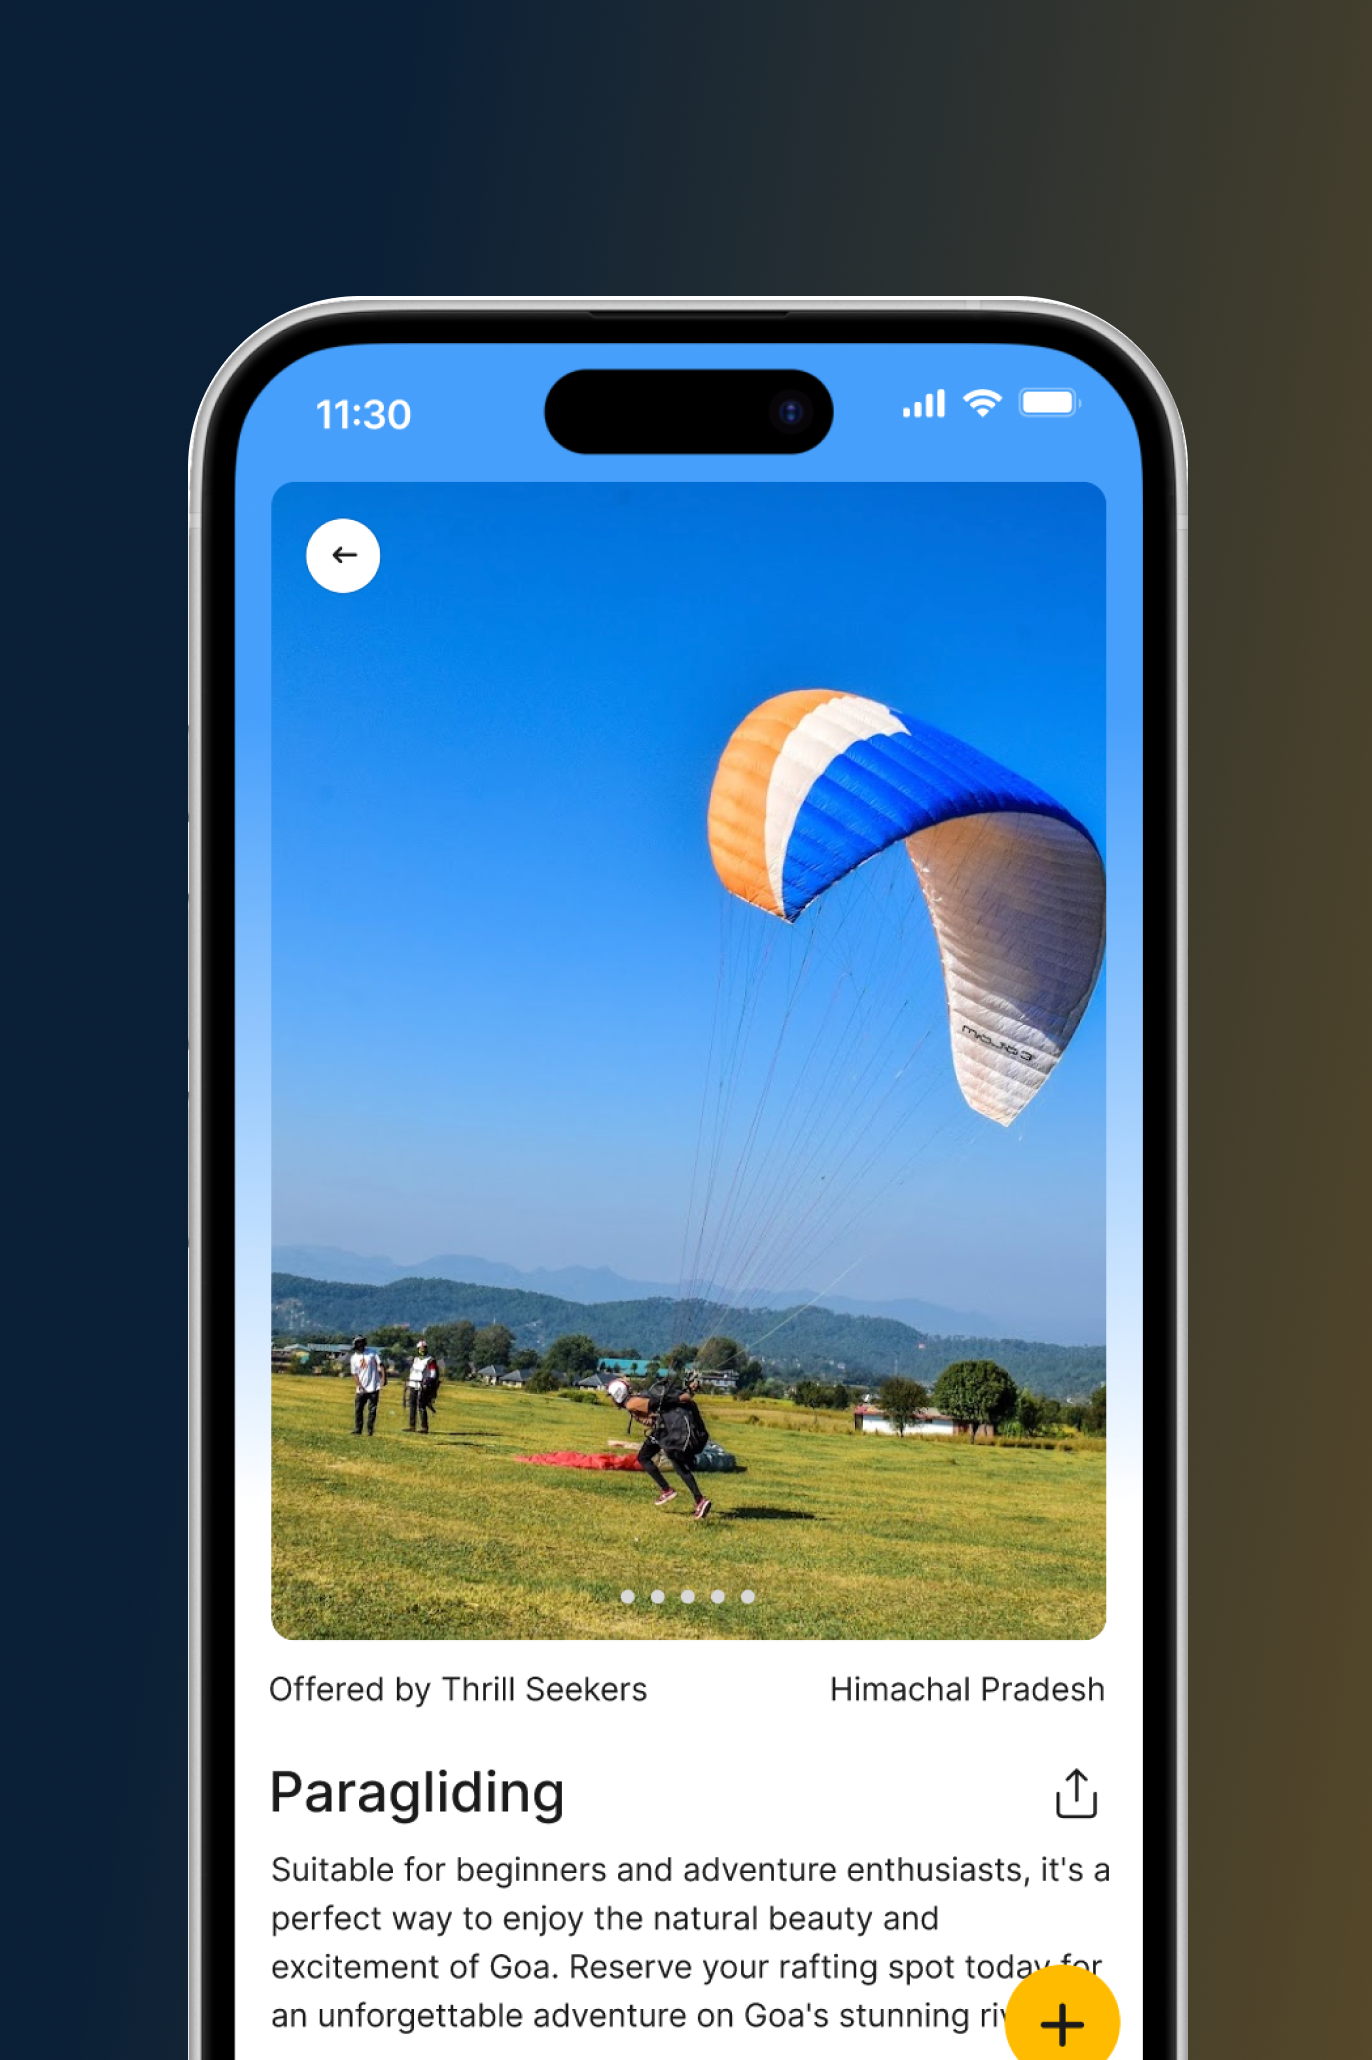
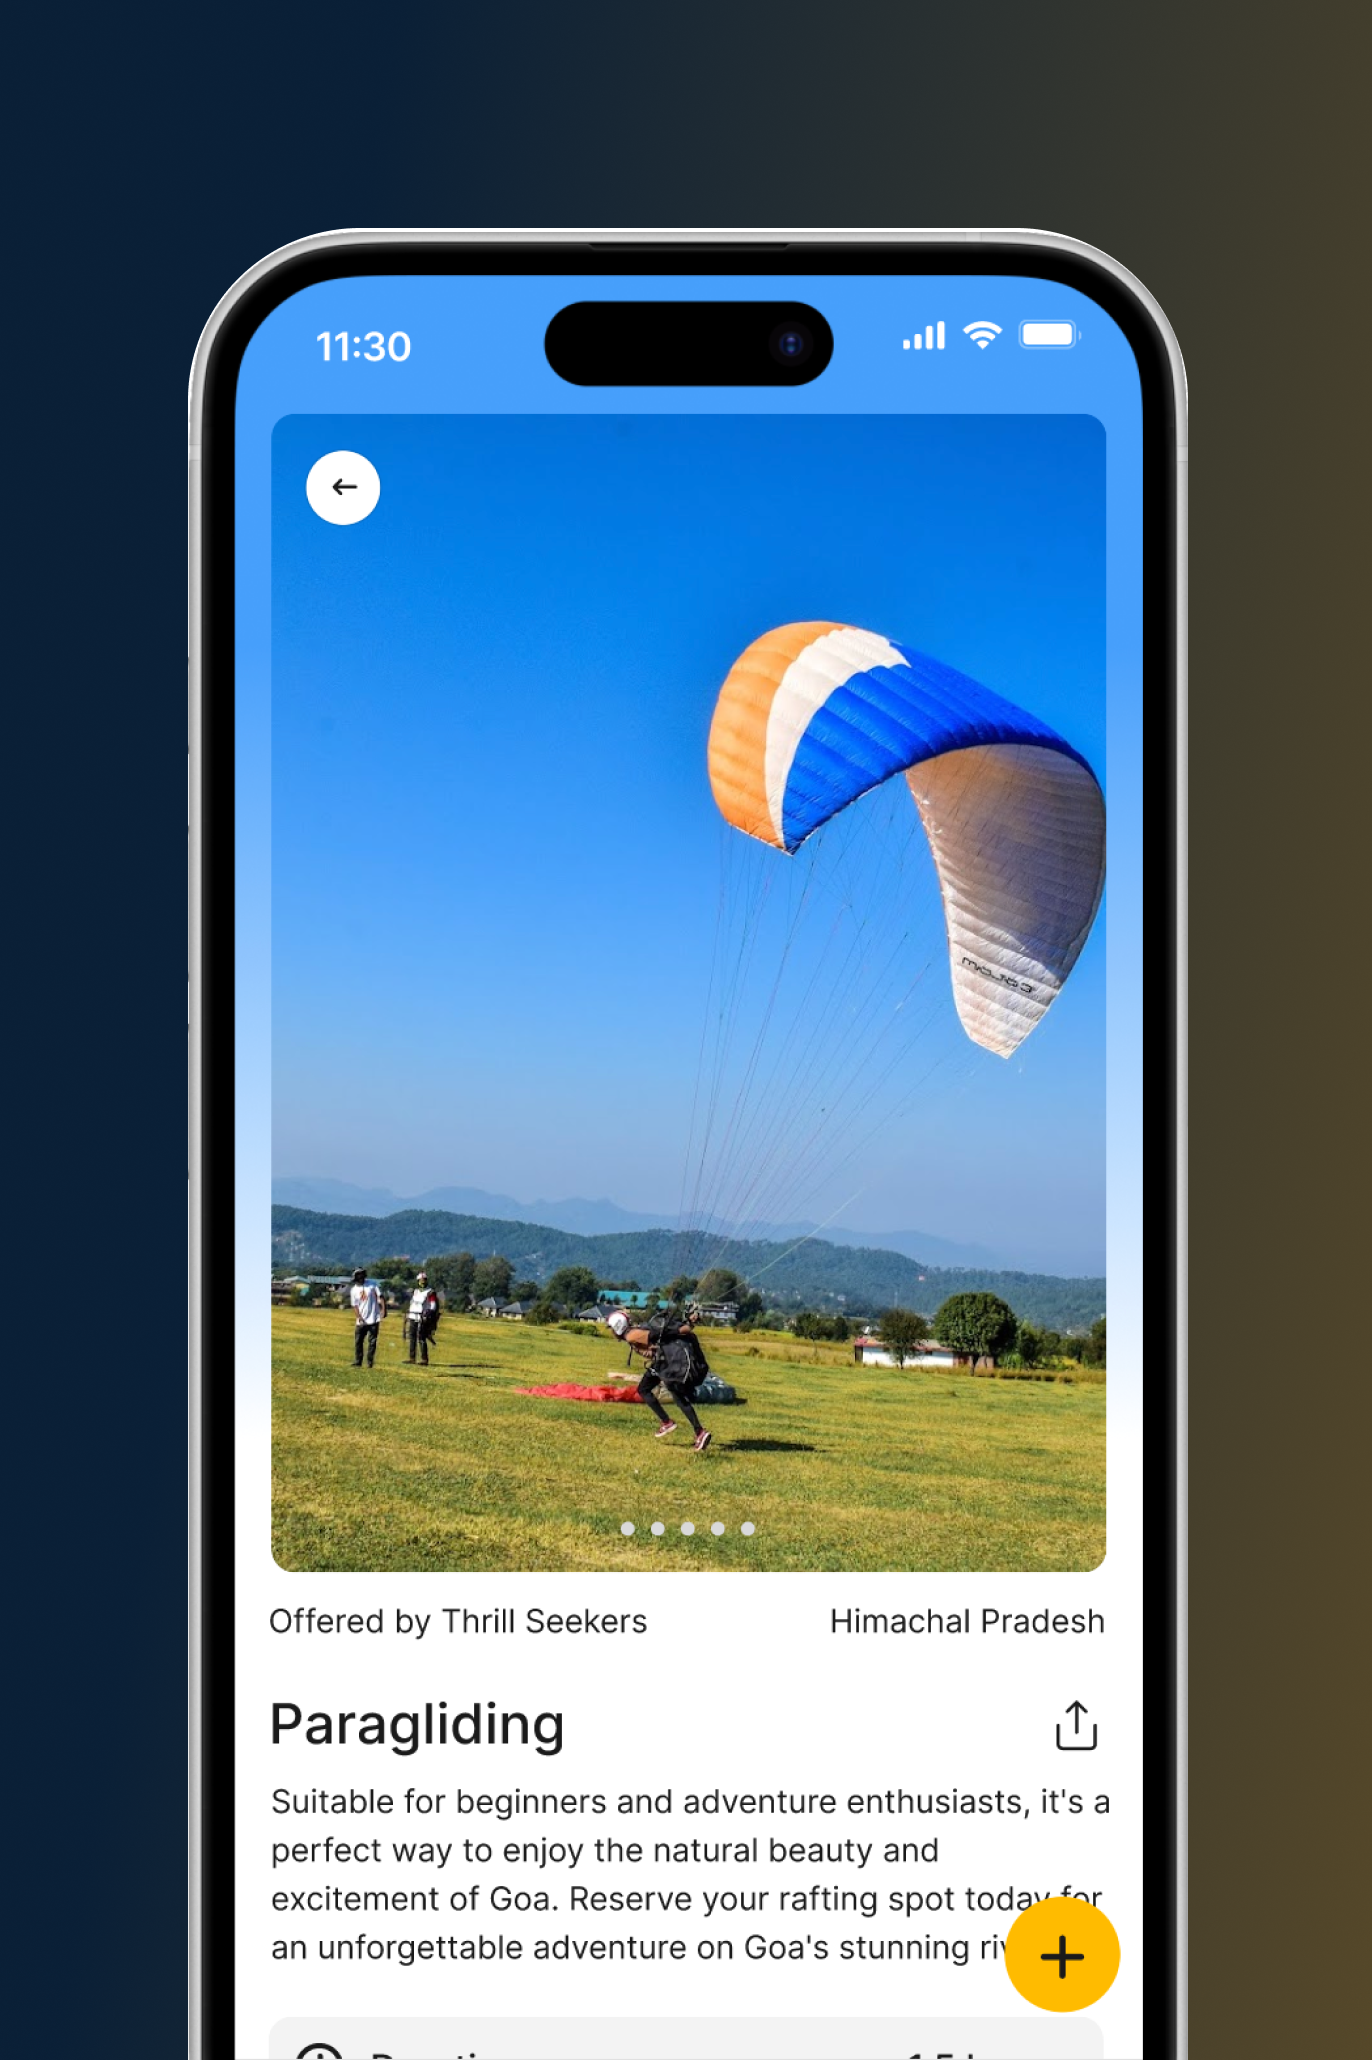
update14

diff --git a/index.html b/index.html
@@ -121,10 +121,10 @@
     </div>
     <div class="work-tab-panel is-active" data-work-panel="office" role="tabpanel">
       <div class="work-tab-showcase">
-        <div class="portfolio-container portfolio-container-clickable" onclick="openPage('life-insurance')" onkeydown="if(event.key === 'Enter' || event.key === ' '){ event.preventDefault(); openPage('life-insurance'); }" role="button" tabindex="0" aria-label="Open Life Insurance case study">
+        <div class="portfolio-container portfolio-container-clickable life-mobile-edge-card" onclick="openPage('life-insurance')" onkeydown="if(event.key === 'Enter' || event.key === ' '){ event.preventDefault(); openPage('life-insurance'); }" role="button" tabindex="0" aria-label="Open Life Insurance case study">
           <div class="portfolio-card">
             <picture class="portfolio-project-image">
-              <source media="(max-width: 768px)" srcset="Mobile1-1100.jpg">
+              <source media="(max-width: 768px)" srcset="LifeMobileLightMode-1400.jpg">
               <img
                 id="life-work-preview-panel"
                 src="LifeDesktopLightMode-2400.jpg"
@@ -180,7 +180,7 @@
     </div>
     <div class="work-tab-panel" data-work-panel="freelance" role="tabpanel" hidden>
       <div class="work-tab-showcase">
-        <div class="portfolio-container portfolio-container-clickable" onclick="openPage('go-leap')" onkeydown="if(event.key === 'Enter' || event.key === ' '){ event.preventDefault(); openPage('go-leap'); }" role="button" tabindex="0" aria-label="Open Go Leap case study">
+        <div class="portfolio-container portfolio-container-clickable goleap-mobile-edge-card" onclick="openPage('go-leap')" onkeydown="if(event.key === 'Enter' || event.key === ' '){ event.preventDefault(); openPage('go-leap'); }" role="button" tabindex="0" aria-label="Open Go Leap case study">
           <div class="portfolio-card">
             <picture class="portfolio-project-image">
               <source media="(max-width: 768px)" srcset="GoLeapMobile.png">
@@ -200,7 +200,7 @@
         <div class="portfolio-container portfolio-container-clickable" onclick="openPage('colrows')" onkeydown="if(event.key === 'Enter' || event.key === ' '){ event.preventDefault(); openPage('colrows'); }" role="button" tabindex="0" aria-label="Open Colrows case study">
           <div class="portfolio-card">
             <picture class="portfolio-project-image">
-              <source media="(max-width: 768px)" srcset="ColrowsMobileLightMode-1100.jpg">
+              <source media="(max-width: 768px)" srcset="ColrowsMobile.png">
               <img src="ColrowsDesktopLightMode-2400.jpg" alt="Colrows project preview" loading="lazy" decoding="async" fetchpriority="low">
             </picture>
           </div>
@@ -217,7 +217,7 @@
         <div class="portfolio-container portfolio-container-clickable" onclick="openPage('refi-nft-dashboard')" onkeydown="if(event.key === 'Enter' || event.key === ' '){ event.preventDefault(); openPage('refi-nft-dashboard'); }" role="button" tabindex="0" aria-label="Open ReFi NFT Dashboard case study">
           <div class="portfolio-card">
             <picture class="portfolio-project-image">
-              <source media="(max-width: 768px)" srcset="RefiMobileDarkMode-1100.jpg">
+              <source media="(max-width: 768px)" srcset="RefiMobile.png">
               <img src="RefiDesktopDarkMode-2400.jpg" alt="ReFi NFT Dashboard project preview" loading="lazy" decoding="async" fetchpriority="low">
             </picture>
           </div>
@@ -419,7 +419,7 @@
   <div class="case-study-page">
     <div class="case-study-hero">
       <picture class="case-study-hero-media">
-        <source media="(max-width: 768px)" srcset="Mobile1-1100.jpg">
+        <source media="(max-width: 768px)" srcset="LifeMobileLightMode-1400.jpg">
         <img src="Desktop1.png" alt="Life Insurance, Bajaj Finserv case study hero" loading="lazy" decoding="async" fetchpriority="low">
       </picture>
     </div>
@@ -562,7 +562,7 @@
   <div class="case-study-page">
     <div class="case-study-hero">
       <picture class="case-study-hero-media">
-        <source media="(max-width: 768px)" srcset="RefiMobileDarkMode-1100.jpg">
+        <source media="(max-width: 768px)" srcset="RefiMobile.png">
         <img src="RefiDesktopDarkMode-2400.jpg" alt="ReFi NFT Dashboard case study hero" loading="lazy" decoding="async" fetchpriority="low">
       </picture>
     </div>
@@ -635,7 +635,7 @@
   <div class="case-study-page">
     <div class="case-study-hero">
       <picture class="case-study-hero-media">
-        <source media="(max-width: 768px)" srcset="ColrowsMobileLightMode-1100.jpg">
+        <source media="(max-width: 768px)" srcset="ColrowsMobile.png">
         <img src="ColrowsDesktopLightMode-2400.jpg" alt="Colrows case study hero" loading="lazy" decoding="async" fetchpriority="low">
       </picture>
     </div>
@@ -770,10 +770,10 @@
   <h2 class="portfolio-title">Some of my work</h2>
 
   <!-- Portfolio item 1 -->
-  <div class="portfolio-container portfolio-container-clickable" onclick="openPage('life-insurance')" onkeydown="if(event.key === 'Enter' || event.key === ' '){ event.preventDefault(); openPage('life-insurance'); }" role="button" tabindex="0" aria-label="Open Life Insurance case study">
+  <div class="portfolio-container portfolio-container-clickable life-mobile-edge-card" onclick="openPage('life-insurance')" onkeydown="if(event.key === 'Enter' || event.key === ' '){ event.preventDefault(); openPage('life-insurance'); }" role="button" tabindex="0" aria-label="Open Life Insurance case study">
     <div class="portfolio-card">
       <picture class="portfolio-project-image">
-        <source media="(max-width: 768px)" srcset="Mobile1-1100.jpg">
+        <source media="(max-width: 768px)" srcset="LifeMobileLightMode-1400.jpg">
         <img
           id="life-work-preview"
           src="LifeDesktopLightMode-2400.jpg"
@@ -796,7 +796,7 @@
   </div>
 
   <!-- Portfolio item 2 -->
-  <div class="portfolio-container portfolio-container-clickable" onclick="openPage('go-leap')" onkeydown="if(event.key === 'Enter' || event.key === ' '){ event.preventDefault(); openPage('go-leap'); }" role="button" tabindex="0" aria-label="Open Go Leap case study">
+  <div class="portfolio-container portfolio-container-clickable goleap-mobile-edge-card" onclick="openPage('go-leap')" onkeydown="if(event.key === 'Enter' || event.key === ' '){ event.preventDefault(); openPage('go-leap'); }" role="button" tabindex="0" aria-label="Open Go Leap case study">
     <div class="portfolio-card">
       <picture class="portfolio-project-image">
         <source media="(max-width: 768px)" srcset="GoLeapMobile.png">
@@ -816,7 +816,7 @@
   <div class="portfolio-container portfolio-container-clickable" onclick="openPage('refi-nft-dashboard')" onkeydown="if(event.key === 'Enter' || event.key === ' '){ event.preventDefault(); openPage('refi-nft-dashboard'); }" role="button" tabindex="0" aria-label="Open ReFi NFT Dashboard case study">
     <div class="portfolio-card">
       <picture class="portfolio-project-image">
-        <source media="(max-width: 768px)" srcset="RefiMobileDarkMode-1100.jpg">
+        <source media="(max-width: 768px)" srcset="RefiMobile.png">
         <img src="RefiDesktopDarkMode-2400.jpg" alt="ReFi NFT Dashboard project preview" loading="lazy" decoding="async" fetchpriority="low">
       </picture>
     </div>
@@ -833,7 +833,7 @@
   <div class="portfolio-container portfolio-container-clickable" onclick="openPage('colrows')" onkeydown="if(event.key === 'Enter' || event.key === ' '){ event.preventDefault(); openPage('colrows'); }" role="button" tabindex="0" aria-label="Open Colrows case study">
     <div class="portfolio-card">
       <picture class="portfolio-project-image">
-        <source media="(max-width: 768px)" srcset="ColrowsMobileLightMode-1100.jpg">
+        <source media="(max-width: 768px)" srcset="ColrowsMobile.png">
         <img src="ColrowsDesktopLightMode-2400.jpg" alt="Colrows project preview" loading="lazy" decoding="async" fetchpriority="low">
       </picture>
     </div>

diff --git a/styles-v2.css b/styles-v2.css
@@ -16,14 +16,14 @@
 
   html.dark {
     --bg: #0a0a0a;
-    --text: #ffffff;
-    --text-muted: #999999;
+    --text: #F3F3F3;
+    --text-muted: #F3F3F3;
     --border: #222222;
     --card-bg: rgba(20,20,20,0.85);
     --work-bg: rgba(20,20,20,0.45);
-    --black: #ffffff;
-    --gray: #aaaaaa;
-    --light-gray: #666666;
+    --black: #F3F3F3;
+    --gray: #F3F3F3;
+    --light-gray: #F3F3F3;
     --white: #0a0a0a;
   }
 
@@ -42,8 +42,8 @@
   html.dark .portfolio-image-placeholder { background: #2a2a2a; }
   html.dark .ai-card-image { background: #1e1e1e; }
   html.dark .about-hero-subtitle { color: #555555; }
-  html.dark .about-text p { color: #cccccc; }
-  html.dark .fun-fact { color: #666666; }
+  html.dark .about-text p { color: #F3F3F3; }
+  html.dark .fun-fact { color: #F3F3F3; }
   html.dark #cursor-ring { border-color: rgba(255,255,255,0.35); }
   html.dark #cursor-dot { background: #ffffff; }
   html.dark #cursor-dot.is-pointer { background: transparent; color: #ffffff; }
@@ -54,27 +54,27 @@
 
   html.dark .page-close,
   html.dark .mobile-menu-close {
-    color: #ffffff;
+    color: #F3F3F3;
     background: rgba(20,20,20,0.58);
     border-color: rgba(255,255,255,0.12);
   }
-  html.dark .page-title { color: #ffffff; }
-  html.dark .page-view p { color: #cccccc; }
-  html.dark .page-view strong { color: #ffffff; }
-  html.dark .page-view .about-hero-title { color: #ffffff; }
+  html.dark .page-title { color: #F3F3F3; }
+  html.dark .page-view p { color: #F3F3F3; }
+  html.dark .page-view strong { color: #F3F3F3; }
+  html.dark .page-view .about-hero-title { color: #F3F3F3; }
   html.dark .page-view .about-hero-subtitle { color: #444444; }
-  html.dark .nav-link { color: #ffffff; }
-  html.dark .theme-toggle { color: #ffffff; }
+  html.dark .nav-link { color: #F3F3F3; }
+  html.dark .theme-toggle { color: #F3F3F3; }
 
   /* Big name SVG */
-  html.dark #bigNameText { fill: #ffffff; }
-  html.dark #bigNameText tspan[fill="#000000"] { fill: #ffffff; }
+  html.dark #bigNameText { fill: #F3F3F3; }
+  html.dark #bigNameText tspan[fill="#000000"] { fill: #F3F3F3; }
 
   /* Section titles */
-  html.dark .portfolio-title { color: #ffffff; }
-  html.dark .portfolio-project-name { color: #ffffff; }
-  html.dark .portfolio-problem { color: #aaaaaa; }
-  html.dark .about-hero-title { color: #ffffff; }
+  html.dark .portfolio-title { color: #F3F3F3; }
+  html.dark .portfolio-project-name { color: #F3F3F3; }
+  html.dark .portfolio-problem { color: #F3F3F3; }
+  html.dark .about-hero-title { color: #F3F3F3; }
   html.dark .site-footer {
     background: #111111;
     border-top-color: rgba(255,255,255,0.08);
@@ -84,11 +84,11 @@
   html.dark .footer-name,
   html.dark .footer-link,
   html.dark .footer-link-button {
-    color: #ffffff;
+    color: #F3F3F3;
   }
   html.dark .footer-copy,
   html.dark .footer-meta {
-    color: #a8a8a8;
+    color: #F3F3F3;
   }
   html.dark .work-tab {
     border-color: rgba(255,255,255,0.12);
@@ -106,25 +106,25 @@
   html.dark .work-card-title,
   html.dark .work-card-link,
   html.dark .work-empty-title {
-    color: #ffffff;
+    color: #F3F3F3;
   }
   html.dark .work-card-copy,
   html.dark .work-empty-copy {
-    color: #a8a8a8;
+    color: #F3F3F3;
   }
   html.dark .work-card-kicker {
-    color: #8d8d8d;
+    color: #F3F3F3;
   }
   html.dark .contact-lead,
   html.dark .contact-note {
-    color: #a8a8a8;
+    color: #F3F3F3;
   }
   html.dark .contact-label {
-    color: #8d8d8d;
+    color: #F3F3F3;
   }
   html.dark .contact-value,
   html.dark .contact-value-static {
-    color: #ffffff;
+    color: #F3F3F3;
   }
   html.dark .resume-download-button {
     background: #ffffff;
@@ -141,19 +141,19 @@
   }
   html.dark .contact-chip {
     border-color: rgba(255,255,255,0.1);
-    color: #ffffff;
+    color: #F3F3F3;
     background: rgba(255,255,255,0.04);
   }
   html.dark .artwork-caption {
-    color: #a8a8a8;
+    color: #F3F3F3;
   }
-  html.dark .ai-category-title { color: #ffffff; }
-  html.dark .ai-card-caption { color: #aaaaaa; }
-  html.dark #howIAiTitle { color: #ffffff; }
-  html.dark .work-section * { color: #cccccc; }
-  html.dark .tagline { color: #ffffff; }
-  html.dark .sub-tagline { color: #999999; }
-  html.dark .stat-num { color: #ffffff; }
+  html.dark .ai-category-title { color: #F3F3F3; }
+  html.dark .ai-card-caption { color: #F3F3F3; }
+  html.dark #howIAiTitle { color: #F3F3F3; }
+  html.dark .work-section * { color: #F3F3F3; }
+  html.dark .tagline { color: #F3F3F3; }
+  html.dark .sub-tagline { color: #F3F3F3; }
+  html.dark .stat-num { color: #F3F3F3; }
 
   /* THEME TOGGLE */
   .theme-toggle {
@@ -353,7 +353,7 @@
     position: fixed;
     top: 0; left: 0; right: 0;
     padding: 16px 48px;
-    z-index: 100;
+    z-index: 320;
     display: flex;
     justify-content: space-between;
     align-items: center;
@@ -384,6 +384,16 @@
 
   @media (max-width: 768px) {
     nav { padding: 16px 24px; }
+    body.has-active-page nav {
+      justify-content: flex-end;
+      background: transparent;
+      border-bottom: none;
+      box-shadow: none;
+      padding: 16px 20px;
+    }
+    body.has-active-page nav .logo {
+      display: none;
+    }
   }
 
   #nav-progress-bar {
@@ -399,7 +409,7 @@
       right: 0;
       height: 5px;
       background: transparent;
-      z-index: 101;
+      z-index: 321;
       pointer-events: none;
     }
 
@@ -587,6 +597,12 @@
     transform: translateY(0);
   }
 
+  @media (max-width: 768px) {
+    .page-view {
+      padding-top: 86px;
+    }
+  }
+
   .page-inner {
     padding: 80px 60px;
     font-family: 'Inter', sans-serif;
@@ -628,6 +644,40 @@
   .global-page-close.is-visible {
     opacity: 1;
     pointer-events: auto;
+  }
+
+  @media (max-width: 768px) {
+    .global-page-close {
+      top: auto;
+      right: 20px;
+      bottom: 20px;
+      width: 56px;
+      height: 56px;
+      padding: 0;
+      border-radius: 50%;
+      justify-content: center;
+      gap: 0;
+      background: rgba(255,255,255,0.88);
+      border-color: rgba(0,0,0,0.08);
+      box-shadow: 0 14px 36px rgba(0,0,0,0.14);
+      z-index: 340;
+    }
+
+    .global-page-close span:not(.page-close-icon) {
+      display: none;
+    }
+
+    .global-page-close .page-close-icon {
+      width: auto;
+      height: auto;
+      font-size: 18px;
+    }
+
+    html.dark .global-page-close {
+      background: rgba(20,20,20,0.9);
+      border-color: rgba(255,255,255,0.1);
+      box-shadow: 0 14px 36px rgba(0,0,0,0.34);
+    }
   }
 
   .page-close:hover,
@@ -696,7 +746,7 @@
   .case-study-hero {
     width: auto;
     height: min(68vh, 760px);
-    border-radius: 28px;
+    border-radius: 0;
     overflow: hidden;
     background: #f4f4f4;
     margin: 0 80px 36px;
@@ -1274,7 +1324,17 @@
       display: block;
       margin-bottom: 48px;
     }
-    .portfolio-card     { height: 515px; border-radius: 20px; }
+    .portfolio-card     { height: 515px; border-radius: 0; }
+    .life-mobile-edge-card .portfolio-card {
+      width: calc(100% + 40px);
+      margin-left: -20px;
+      border-radius: 0;
+    }
+    .goleap-mobile-edge-card .portfolio-card {
+      width: calc(100% + 40px);
+      margin-left: -20px;
+      border-radius: 0;
+    }
     .portfolio-image-placeholder { width: 80%; }
     .portfolio-meta {
       margin-top: 16px;

diff --git a/script-v2.js b/script-v2.js
@@ -25,7 +25,7 @@
   }
 
   function getBaseColor() {
-    return document.documentElement.classList.contains('dark') ? '#ffffff' : '#000000';
+    return document.documentElement.classList.contains('dark') ? '#F3F3F3' : '#000000';
   }
 
   function syncThemeImages() {
@@ -473,6 +473,7 @@
   function syncGlobalCloseButton() {
     if (!globalPageClose) return;
     const activePage = document.querySelector('.page-view.active');
+    document.body.classList.toggle('has-active-page', Boolean(activePage));
     globalPageClose.classList.toggle('is-visible', Boolean(activePage));
   }
 
